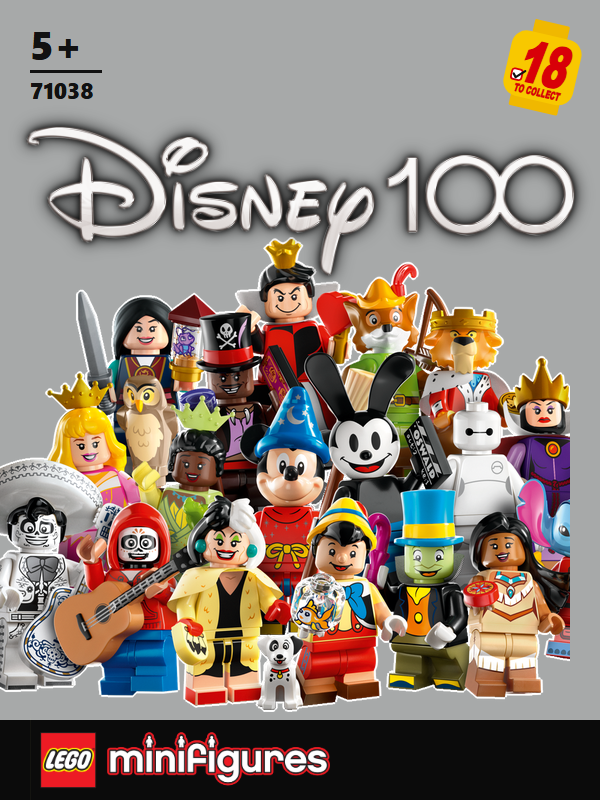
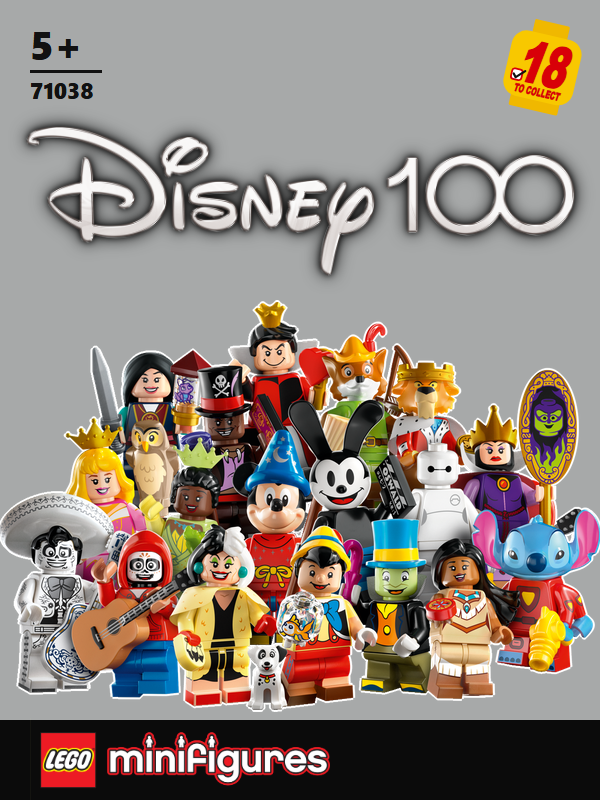
fix(V2-11): 71038 crop centred on the crowd (TRIM_TO_CROWD), GROUP_DX shift dropped

diff --git a/scripts/build_cards.py b/scripts/build_cards.py
@@ -61,7 +61,12 @@ FIG_ADJ = {"71002": 1.2, "71020": 1.3, "71022": 1.3, "71027": 1.2, "71029": 1.2,
 # 71021 (was 1.12) dropped 2026-11-15: its shadow inflated the area; SHADOW_DROP now clears it.
 # 8833 (was 1.3), 8827 and 71025 (were 1.12) dropped 2026-11-14: owner "8833 too zoomed in"; 8827/71025 have new sources.
 # Horizontal crowd shift in card px (negative = left). OWNER-SUPPLIED 2026-11-14: "71038 move a little to the left".
-GROUP_DX = {"71038": -30}
+GROUP_DX = {}
+# Assets with empty margins around the crowd: trim to the crowd (alpha > 127) before the side crop, so the crop is
+# centred on the figures, not on the canvas. 71038 added 2026-11-15 (owner "71038 still not good!"): its crowd spans
+# x 232-1376 of 1400, so the canvas-centred crop cut the right end and the old GROUP_DX -30 shift (2026-11-14) left
+# a straight cut inside the card on the right. The shift is dropped.
+TRIM_TO_CROWD = {"71038"}
 # Thin outline around the crowd so figures in the bag colour stay readable (owner 2026-11-14: orange on 8804, red on
 # 8831, black on 8833/71000, green on 71008, yellow on 71009 "take over" figure parts). Default chosen 2026-11-14
 # (docs/decisions.md): 2 px white; dark on light bags (luminance over OUTLINE_LIGHT) where white would vanish.
@@ -176,6 +181,8 @@ def group_fit(sid, count):
     im = Image.open(GROUP / f"{sid}.png").convert("RGBA")
     if sid in SHADOW_DROP:
         im = drop_shadow(im)
+    if sid in TRIM_TO_CROWD:
+        im = im.crop(im.split()[-1].point(lambda v: 255 if v > 127 else 0).getbbox())
     w, h = im.size
     cut = False
     area = int((np.asarray(im)[:, :, 3] > 127).sum())
